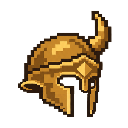
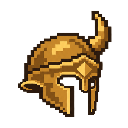
fix: 顎当ての継ぎ目と顔に出る線を修正 (#124)

Changed region(s): [[0.3125, 0.7188, 0.5938, 0.9375], [0.6562, 0.7188, 0.7812, 0.9375]]

diff --git a/docs/01_ゲーム企画・基本設計書.md b/docs/01_ゲーム企画・基本設計書.md
@@ -42,7 +42,7 @@
 - 2026-11-20：元の画像切替版を残し、同じレイアウトの装備着脱ページを追加する（#117）。共通人物・低いポニーテール・独立した兜6種類を重ね、合成PNGを保存する。両方式の比較用で、武器・防具は追加しない。型検査・通常/Pages用ビルド、両ページの切替・保存・相互リンク、着脱版の試作との画素一致、首・襟足保持、読込失敗と再試行、速い切替、キーボード・狭い画面・PC下部選択時のプレビューを確認した。
 - 2026-11-20：着脱版の選択画像を、人物の全身から兜単体のサムネイルへ変更した（#119）。人物プレビューと合成PNGの保存内容は維持する。型検査・通常/Pages用ビルド、6枚の表示と余白、全7状態の表示・保存の変更前との一致、元ページの維持、キーボード・390px・相互リンクを確認した。マージ後の公開URLへの反映は未検証。
 - 2026-11-20：調査用の顔と兜の比較画面を公開対象に追加する（#122、調査 #121）。装備データと合成を着脱版と共通化し、将来の兜追加も比較対象へ反映する。型検査・通常/Pages用ビルド、全6候補の通常/半透明表示と調査用画面の画素一致、1280/720/390px幅の全基準線、切替・キーボード・読込失敗/再試行、既存の切替/保存の維持を確認した。一時的な候補追加による両ページへの自動反映も確認し、テストデータは復元済み。公開URLでの確認はマージ後に行う。
-- 2026-11-21：銀・角付き／金・一本角／黒・赤い鶏冠の顎当て下端を、銀・青緑を目安に少し延長する（#124）。独立パーツとサムネイルを更新し、共通の着脱版・比較ページへ反映する。人物と頭部・飾りの大きさ、元の画像切替版は維持する。型検査・通常/Pages用ビルド、局所範囲外の画素一致、全7状態の切替/保存、対象3種の比較表示との一致、基準線・狭い画面を確認した。
+- 2026-11-21：銀・角付き／金・一本角／黒・赤い鶏冠の顎当て下端を、銀・青緑を目安に少し延長する（#124）。独立パーツとサムネイルを更新し、共通の着脱版・比較ページへ反映する。人物と頭部・飾りの大きさ、元の画像切替版は維持する。型検査・通常/Pages用ビルド、局所範囲外と継ぎ目付近の元画素の一致、全7状態の切替/保存、対象3種の比較表示との一致、基準線・狭い画面を確認した。公開URLへの反映はマージ後に確認する。
 - 戦闘の構想や承認履歴は過去資料とGit履歴に保存する。現行の装備室の制約や次の作業として自動的に引き継がない。将来戦闘を再開する場合は、その時点で参照する。
 
 ## 14. 現在の状態と次の検討
